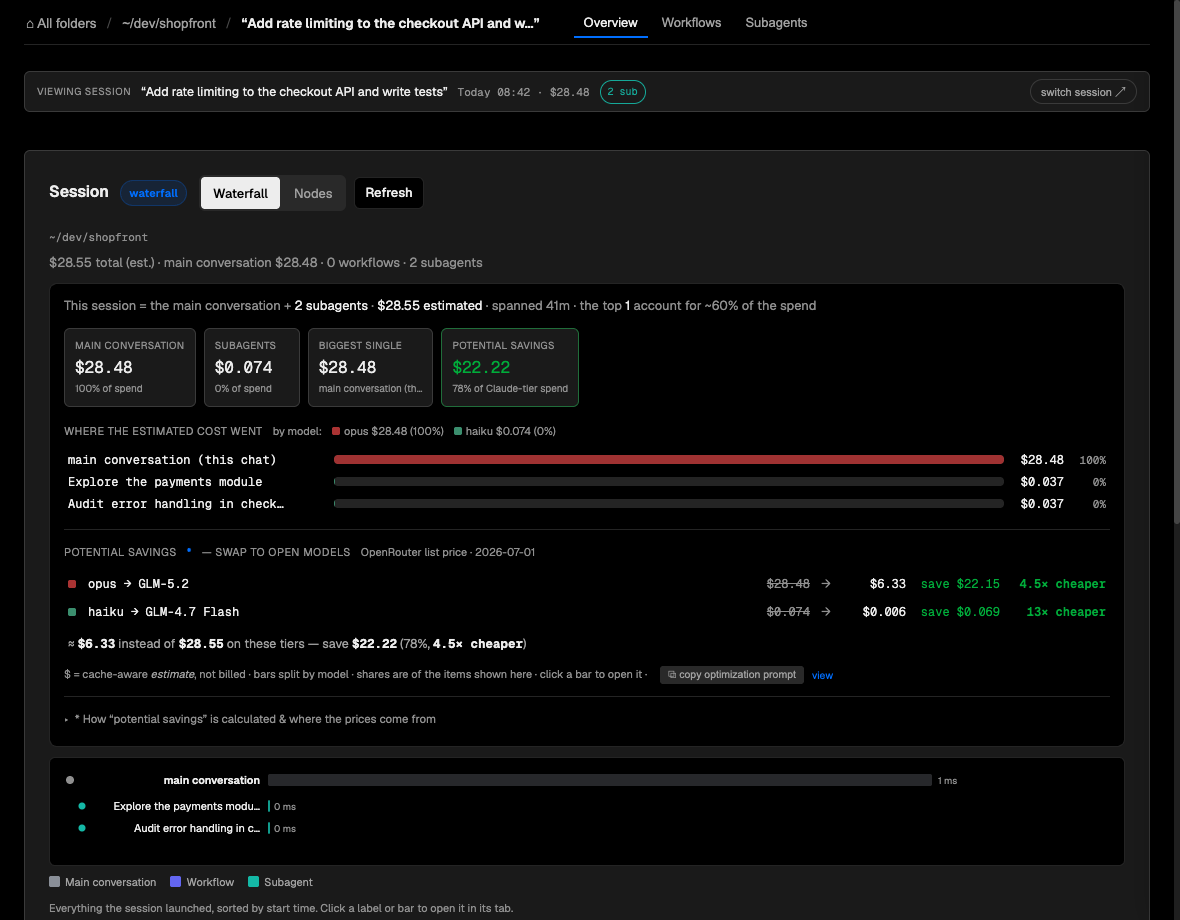
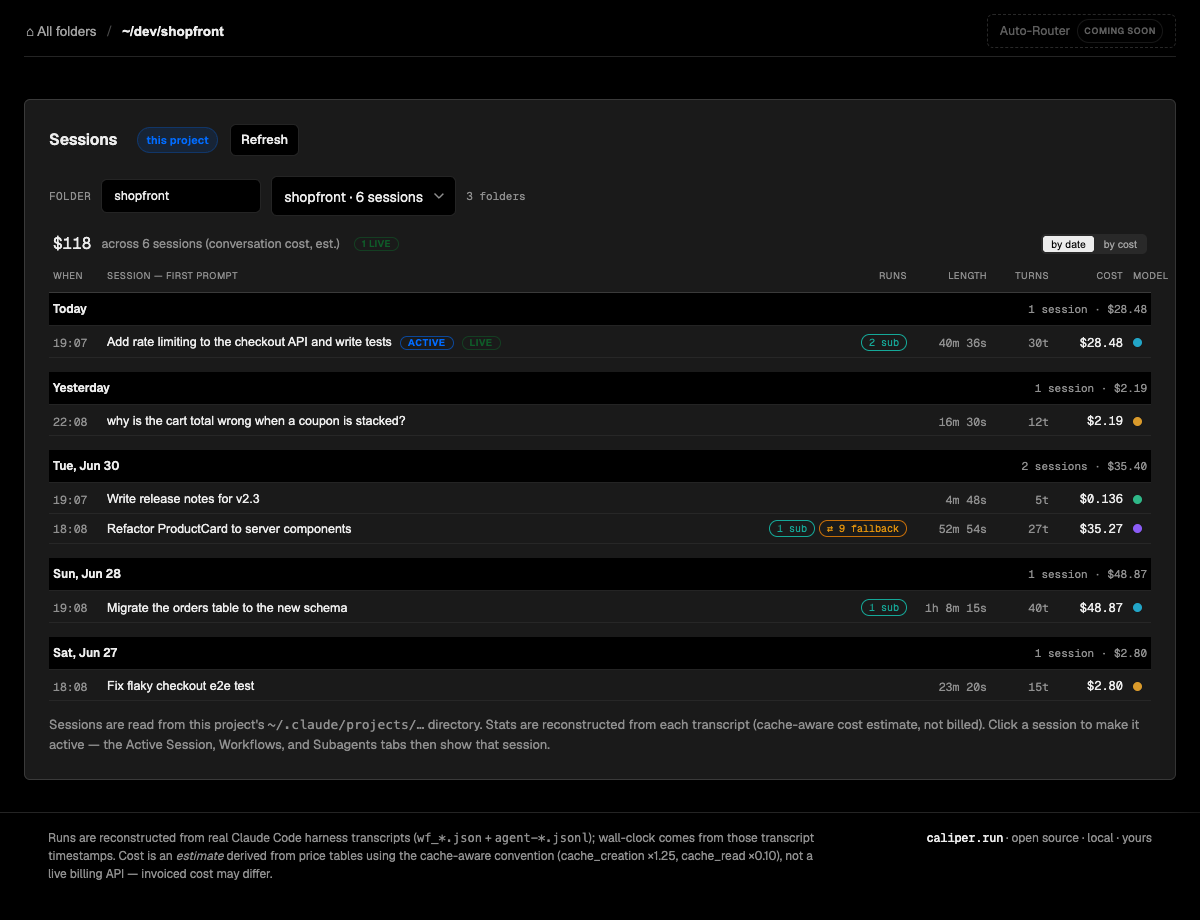
'Nerfed by Fable' rebrand + honest date range + refreshed README screenshots (v0.27.0)
- Banner headline 'switched off Fable N times' -> 'nerfed by Fable N times'
  (punchier/on-meme; the sub-line keeps the precise refusals+switches breakdown).
- 'All-time spend' -> 'Total spend · since <earliest date>' — Claude Code prunes
  old transcripts, so the honest window is 'as far back as your on-disk
  transcripts go' (~6 weeks here), not literally all-time. Tooltip shows the
  full date range + active-day count.
- demo-data.mjs: emits Fable fallback events (workflow agent() fan-out refusals
  + switches, plus a couple in main chat, incl. a streamed refusal) so the README
  home screenshot shows the flagship banner (22 events, 86% in subagents).
- Refreshed docs/screenshots/{home,folder,session}.png on the new design + demo
  data; README 'What you get' gains a Nerfed-by-Fable bullet.

Suite 75 pass.

diff --git a/packages/control-tower/public/app.js b/packages/control-tower/public/app.js
@@ -3588,9 +3588,14 @@ function renderAggregate(a) {
   const t = a.totals;
   const prog = a.done ? '' : `<span class="muted" style="font-size:11px;margin-left:10px">scanning… ${fmtN(a.progress.scannedSessions)}/${fmtN(a.progress.totalSessions)} sessions</span>`;
   // Metric cards — equal-width grid, generous whitespace (StackAI/OpenAI usage style).
-  const metric = (k, v, s, big) => `<div class="agg-metric${big ? ' agg-metric-hero' : ''}"><div class="agg-metric-k">${k}</div><div class="agg-metric-v">${v}</div><div class="agg-metric-s">${s}</div></div>`;
+  const metric = (k, v, s, big, title) => `<div class="agg-metric${big ? ' agg-metric-hero' : ''}"${title ? ` title="${esc(title)}"` : ''}><div class="agg-metric-k">${k}</div><div class="agg-metric-v">${v}</div><div class="agg-metric-s">${s}</div></div>`;
+  // Honest coverage window: "all-time" is really "as far back as your on-disk
+  // transcripts go" — Claude Code prunes old ones. Show the real earliest date.
+  const spanDays = (a.byDay || []).map((b) => b.day).filter(Boolean).sort();
+  const fmtDayShort = (iso) => { const p = String(iso).split('-'); const M = ['Jan','Feb','Mar','Apr','May','Jun','Jul','Aug','Sep','Oct','Nov','Dec'][(+p[1] || 1) - 1]; return p.length === 3 ? `${M} ${+p[2]}, ${p[0]}` : iso; };
+  const sinceLabel = spanDays.length ? `since ${fmtDayShort(spanDays[0])} · est.` : 'cache-aware estimate';
   const chips = `<div class="agg-metrics">`
-    + metric(`All-time spend${a.done ? '' : ' (so far)'}`, fmtUsdShort(t.costUsd), 'cache-aware estimate', true)
+    + metric(`Total spend${a.done ? '' : ' (so far)'}`, fmtUsdShort(t.costUsd), sinceLabel, true, `Cache-aware estimate across every Claude Code transcript still on disk (${spanDays.length ? fmtDayShort(spanDays[0]) + ' – ' + fmtDayShort(spanDays[spanDays.length - 1]) : 'all dates'}, ${spanDays.length} active days). Claude Code prunes older transcripts, so this is bounded by what's retained locally, not literally all-time.`)
     + metric('Sessions', fmtN(t.sessions), `${fmtN(t.folders)} folders`)
     + metric('Output tokens', fmtNshort(t.tokens.out), `${fmtNshort(t.tokens.in)} fresh in`)
     + metric('Cache reads', fmtNshort(t.tokens.cacheRd), `${fmtNshort(t.tokens.cacheWr)} written`)
@@ -3612,7 +3617,7 @@ function renderAggregate(a) {
     .sort((a, b) => b[1] - a[1]).map(([k, v]) => `${esc(k)} ×${v}`).join(' · ');
   const fbBanner = totalSwitches
     ? `<div class="fb-banner${a.done ? '' : ' fb-banner-scanning'}">`
-      + `<div class="fb-banner-lead">⇄ You got <strong>switched off Fable ${fmtN(totalSwitches)} time${totalSwitches === 1 ? '' : 's'}</strong>${a.done ? '' : ' <span class="fb-banner-sofar">(scanning…)</span>'}</div>`
+      + `<div class="fb-banner-lead">⇄ You got <strong>nerfed by Fable ${fmtN(totalSwitches)} time${totalSwitches === 1 ? '' : 's'}</strong>${a.done ? '' : ' <span class="fb-banner-sofar">(scanning…)</span>'}</div>`
       + `<div class="fb-banner-sub">`
       + `<span class="fb-banner-pill" title="Fable's classifier declined a request inside a subagent (a Task/Agent, or a Workflow agent() call), then Claude Code re-served it on the fallback model. Includes refusals + re-served switches.">`
       + `<strong>${fmtN(subTotal)}</strong> in subagents</span>`

diff --git a/README.md b/README.md
@@ -36,7 +36,8 @@
 |---|---|
 | ![Folder view](docs/screenshots/folder.png) | ![Session overview](docs/screenshots/session.png) |
 
-- **Machine-wide analytics** — all-time spend, daily charts stacked by model, spend by repo, cache economics.
+- **Machine-wide analytics** — total spend, daily charts stacked by model, spend by repo, cache economics.
+- **"Nerfed by Fable" tracking** — counts every time Fable 5's safety classifier declined a request and Claude Code re-served it on the fallback model (refusals + switches), split by where it happened (mostly inside parallel Workflow subagents), down to the exact step and the prompt that triggered it.
 - **Everything** — plain chats, Workflow runs, subagents (nested too), full conversations, per-step timelines.
 - **The loop** — one click copies your real numbers, file paths, and live API pointers into a prompt; Claude analyzes the spend, edits the workflow that caused it, or writes you a cost skill.
 - **Self-updating** — checks this repo and offers one-click updates.